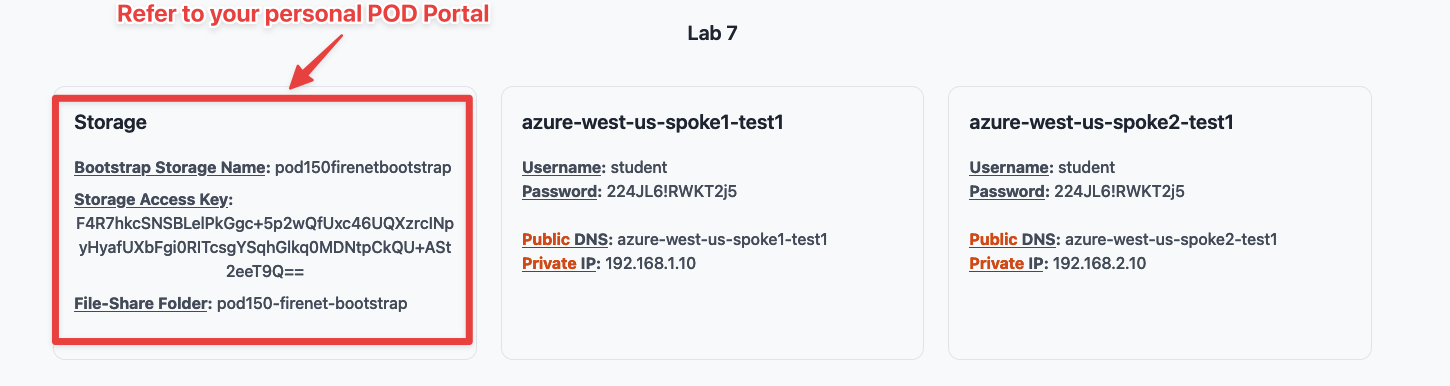
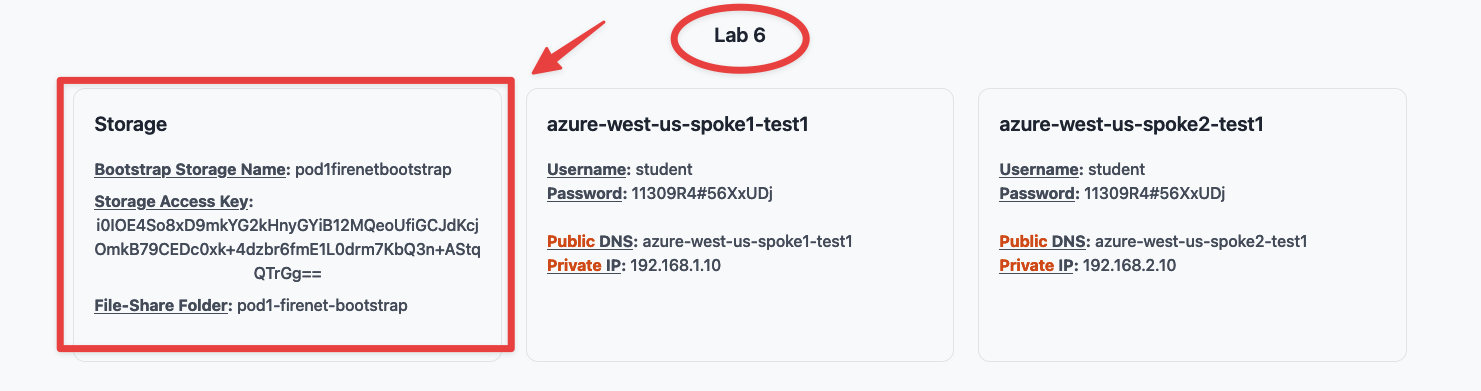
update for pro

diff --git a/ace_pro/docs/lab6.md b/ace_pro/docs/lab6.md
@@ -101,9 +101,9 @@ Marketplace contact under loading
 - **Username**: <span style='color:#479608'>avxadmin [**Note**: username *admin* is not permitted in Azure]</span>
 - **Password**: <span style='color:#479608'>[choose a **strong password** and remember it]</span>
 - **Bootstrap Configuration**: <span style='color:#479608'>turn **ON** the knob</span>
-- **Storage**: <span style='color:#479608'>Retrieve this from your <ins>pod info (Lab7 section)</ins></span>
-- **Storage Access Key**: <span style='color:#479608'>Retrieve this from your <ins>pod info (Lab7 section)</ins></span>
-- **File-Shared Folder**: <span style='color:#479608'>Retrieve this from your <ins>pod info (Lab7 section)</ins></span>
+- **Storage**: <span style='color:#479608'>Retrieve this from your <ins>pod info (Lab6 section)</ins></span>
+- **Storage Access Key**: <span style='color:#479608'>Retrieve this from your <ins>pod info (Lab6 section)</ins></span>
+- **File-Shared Folder**: <span style='color:#479608'>Retrieve this from your <ins>pod info (Lab6 section)</ins></span>
 
 Then click on **Deploy**.
 
